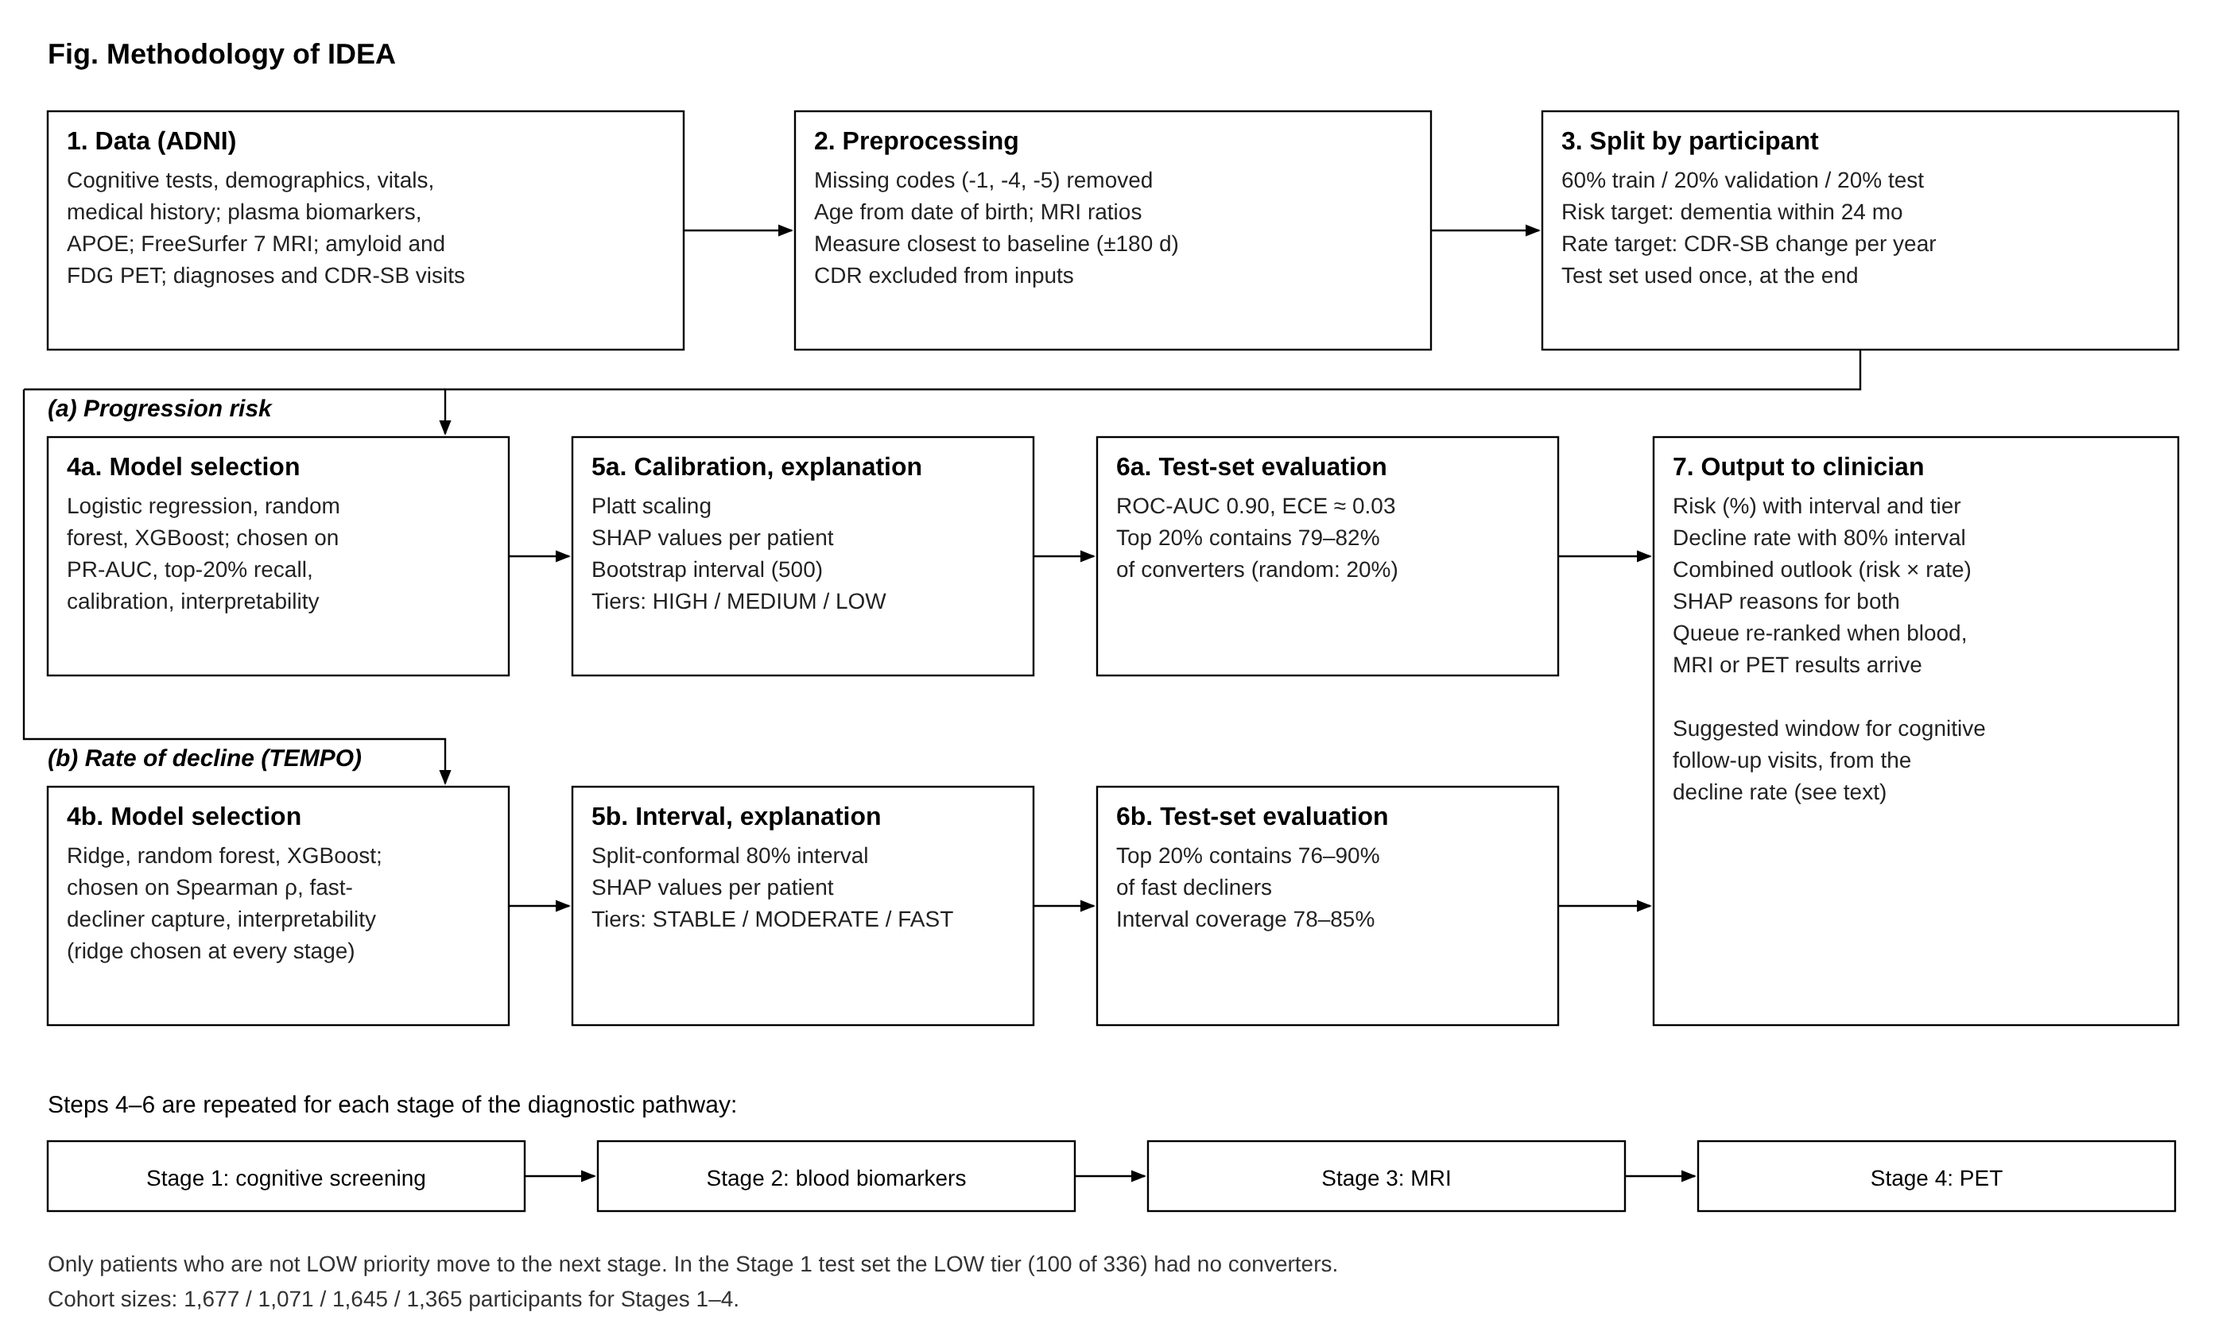
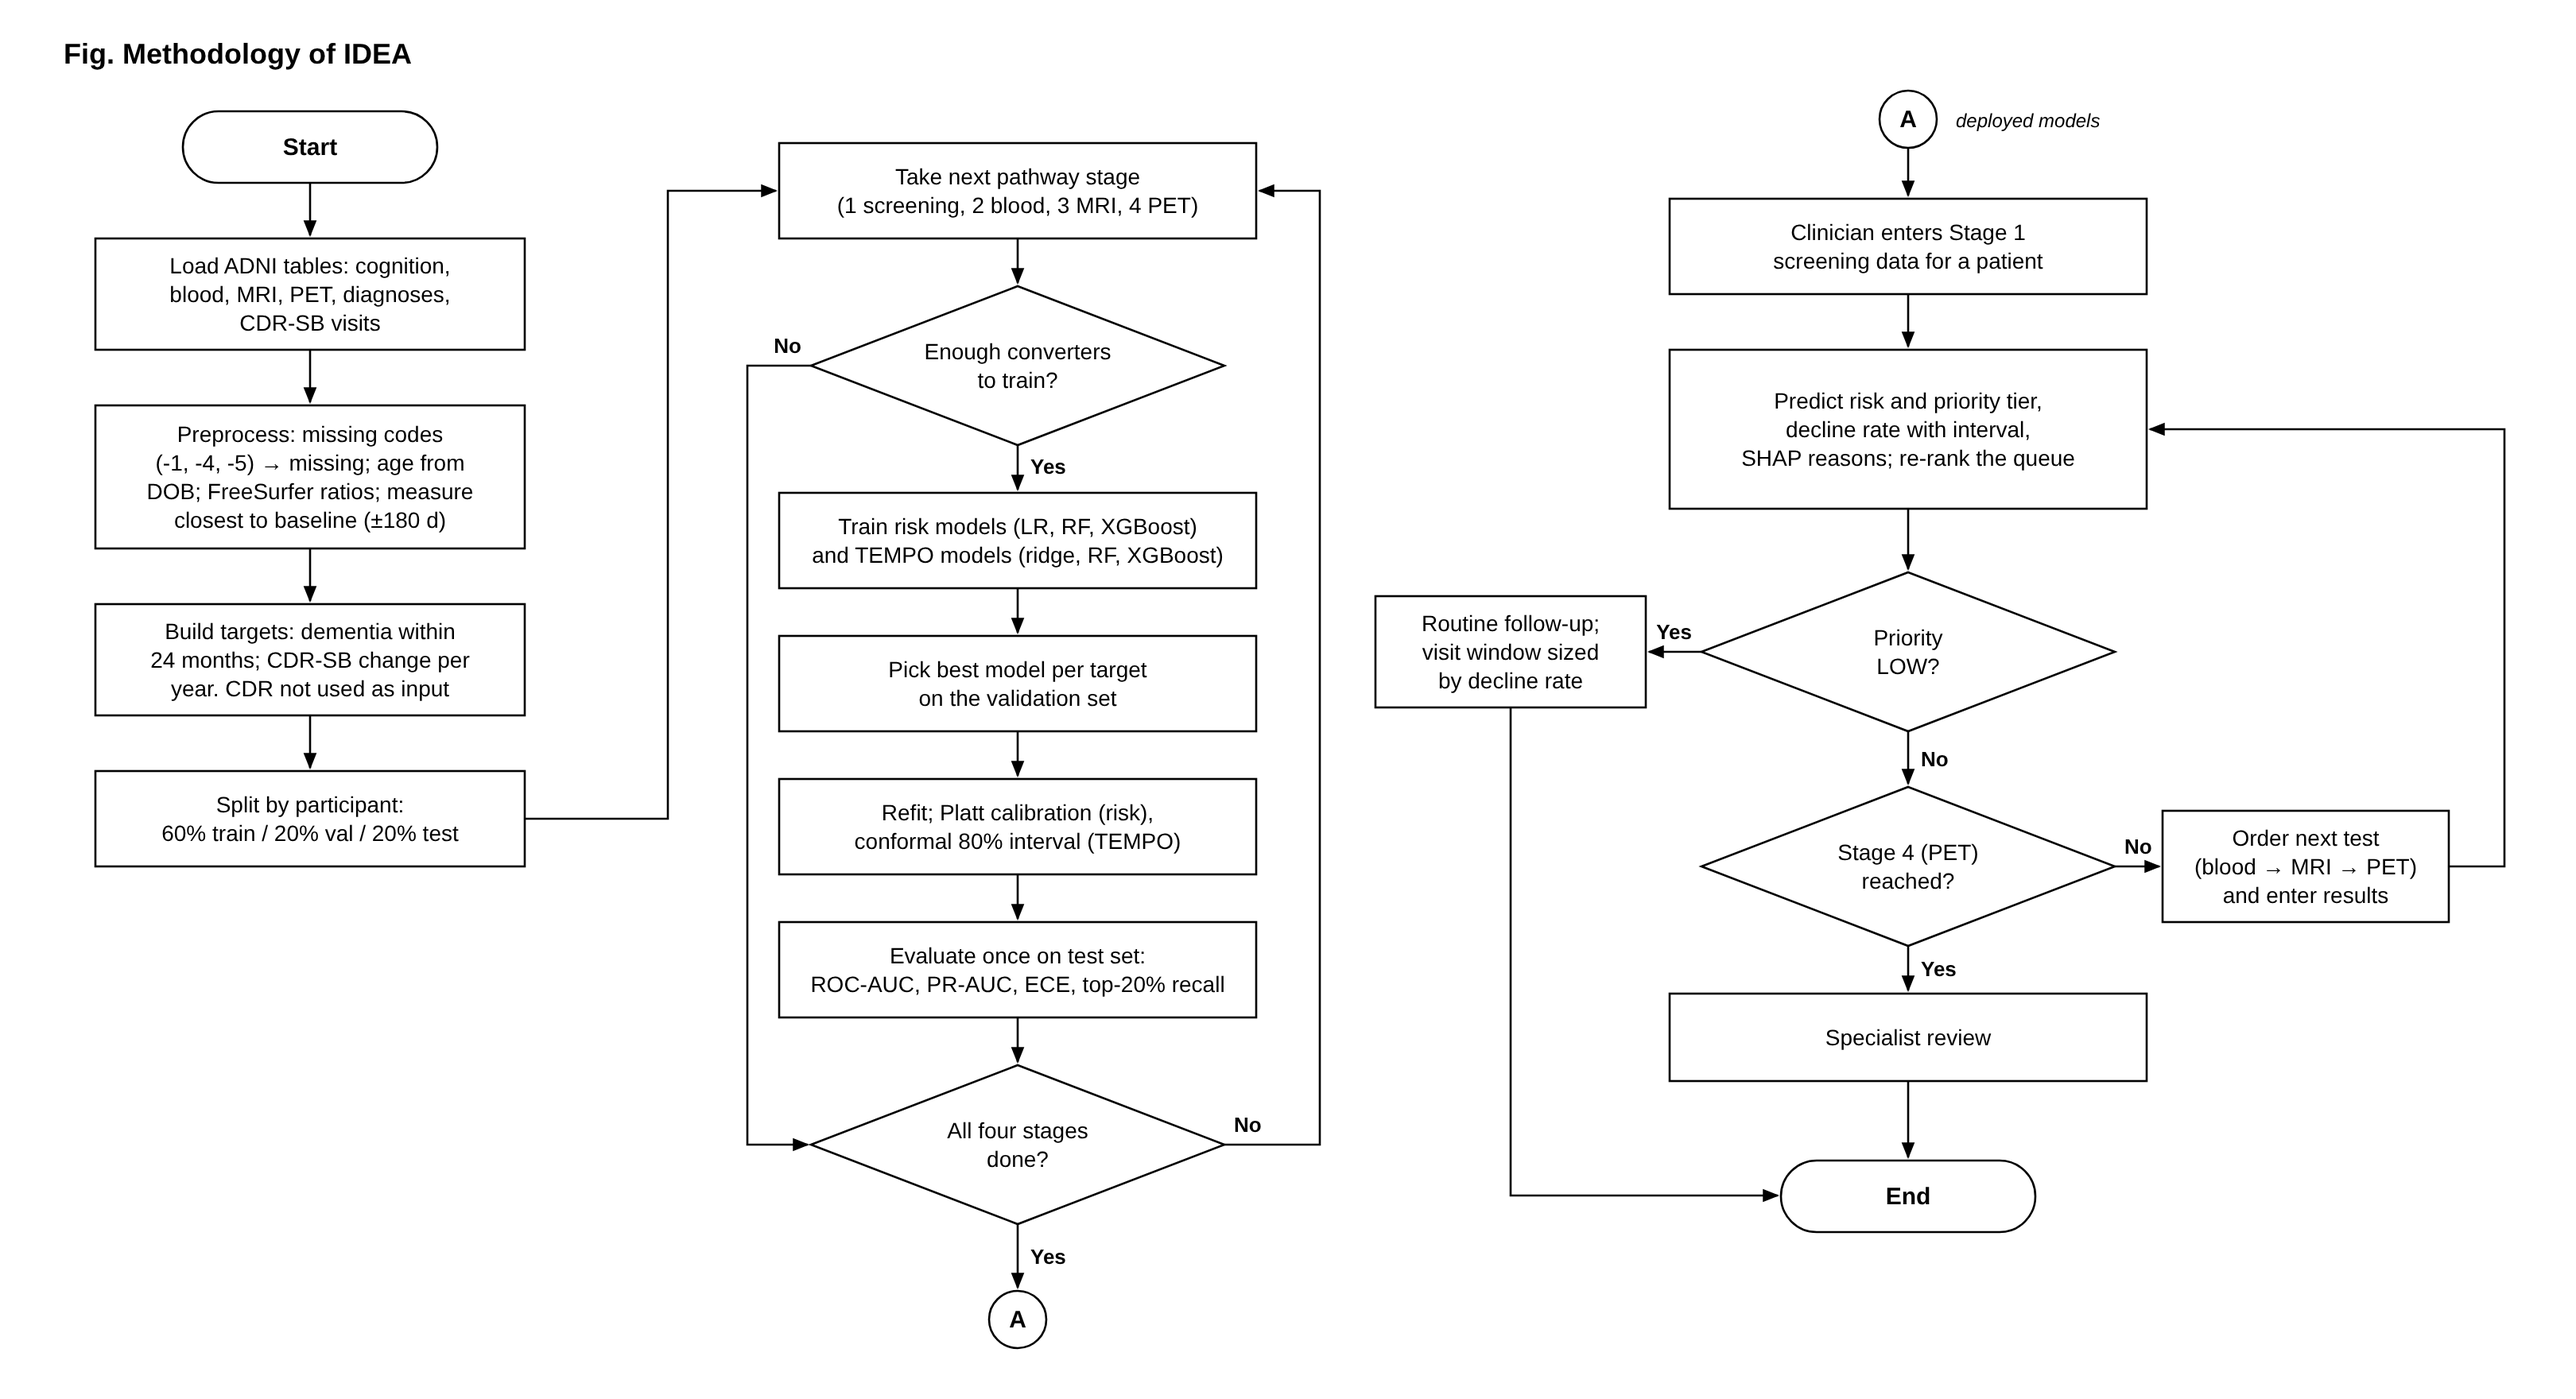
Redraw methodology figure as a single flowchart
Start/end terminators, process boxes, decision diamonds (enough converters,
all stages done, priority LOW, Stage 4 reached) and an on-page connector
linking model development to use in clinic.

Claude-Session: https://claude.ai/code/session_01MddssJoa9Fr7KksnLBHcu2

diff --git a/README.md b/README.md
@@ -21,7 +21,7 @@ Team: Harithra S, Tharika N S, Thanushika Sri RA, Shreenidhi G (Amrita Vishwa Vi
 
 ## What the system does
 
-![IDEA methodology: ADNI data, preprocessing, participant-level split, then a risk lane and a TEMPO lane (train, calibrate/explain, evaluate) feeding a clinician-facing output](docs/figures/methodology.png)
+![IDEA methodology flowchart: data preparation, per-stage model development loop, then use in clinic with priority and stage decisions](docs/figures/methodology.png)
 
 *Methodology overview ([SVG](docs/figures/methodology.svg)).*
 
